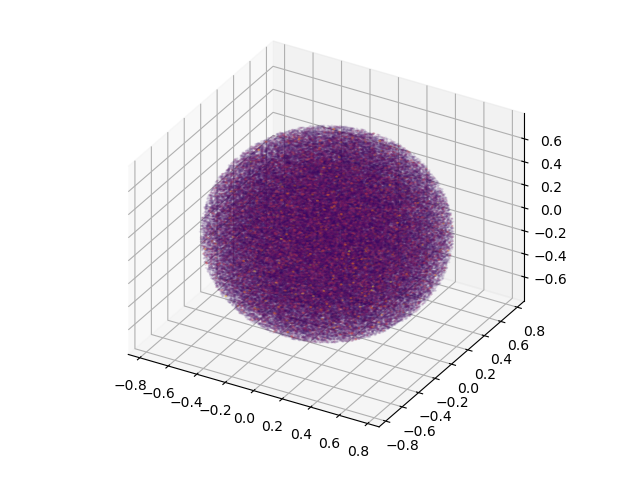
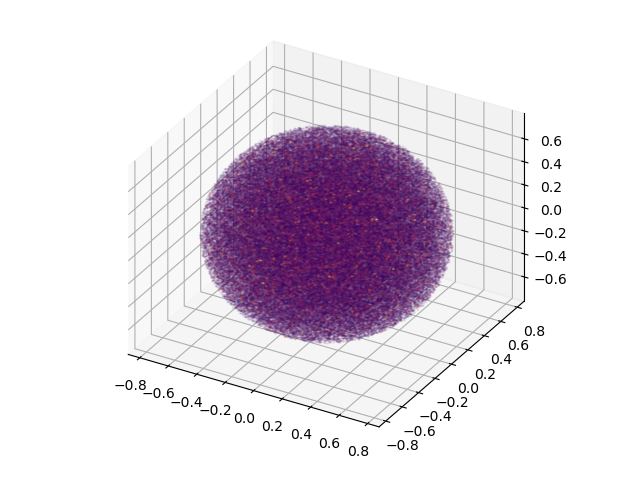
example images with 2x resolution

Changed region(s): [[0.3125, 0.25, 0.7188, 0.7188]]

diff --git a/docs/conf.py b/docs/conf.py
@@ -97,5 +97,6 @@ sphinx_gallery_conf = {
         'glass': None,
     },
     'download_all_examples': False,
+    'image_srcset': ['2x'],
     'show_signature': False,
 }

diff --git a/docs/examples/2_advanced/plot_shears.rst b/docs/examples/2_advanced/plot_shears.rst
@@ -194,7 +194,7 @@ noise, and the expected mixing matrix for a uniform distribution of points.
 
 .. image-sg:: /examples/2_advanced/images/sphx_glr_plot_shears_001.png
    :alt: plot shears
-   :srcset: /examples/2_advanced/images/sphx_glr_plot_shears_001.png
+   :srcset: /examples/2_advanced/images/sphx_glr_plot_shears_001.png, /examples/2_advanced/images/sphx_glr_plot_shears_001_2_0x.png 2.0x
    :class: sphx-glr-single-img
 
 

diff --git a/docs/examples/1_basic/plot_lensing.rst b/docs/examples/1_basic/plot_lensing.rst
@@ -157,7 +157,7 @@ CAMB) for the given redshift distribution of sources.
 
 .. image-sg:: /examples/1_basic/images/sphx_glr_plot_lensing_001.png
    :alt: plot lensing
-   :srcset: /examples/1_basic/images/sphx_glr_plot_lensing_001.png
+   :srcset: /examples/1_basic/images/sphx_glr_plot_lensing_001.png, /examples/1_basic/images/sphx_glr_plot_lensing_001_2_0x.png 2.0x
    :class: sphx-glr-single-img
 
 

diff --git a/docs/examples/1_basic/plot_density.rst b/docs/examples/1_basic/plot_density.rst
@@ -155,7 +155,7 @@ each other.
 
 .. image-sg:: /examples/1_basic/images/sphx_glr_plot_density_001.png
    :alt: plot density
-   :srcset: /examples/1_basic/images/sphx_glr_plot_density_001.png
+   :srcset: /examples/1_basic/images/sphx_glr_plot_density_001.png, /examples/1_basic/images/sphx_glr_plot_density_001_2_0x.png 2.0x
    :class: sphx-glr-single-img
 
 
